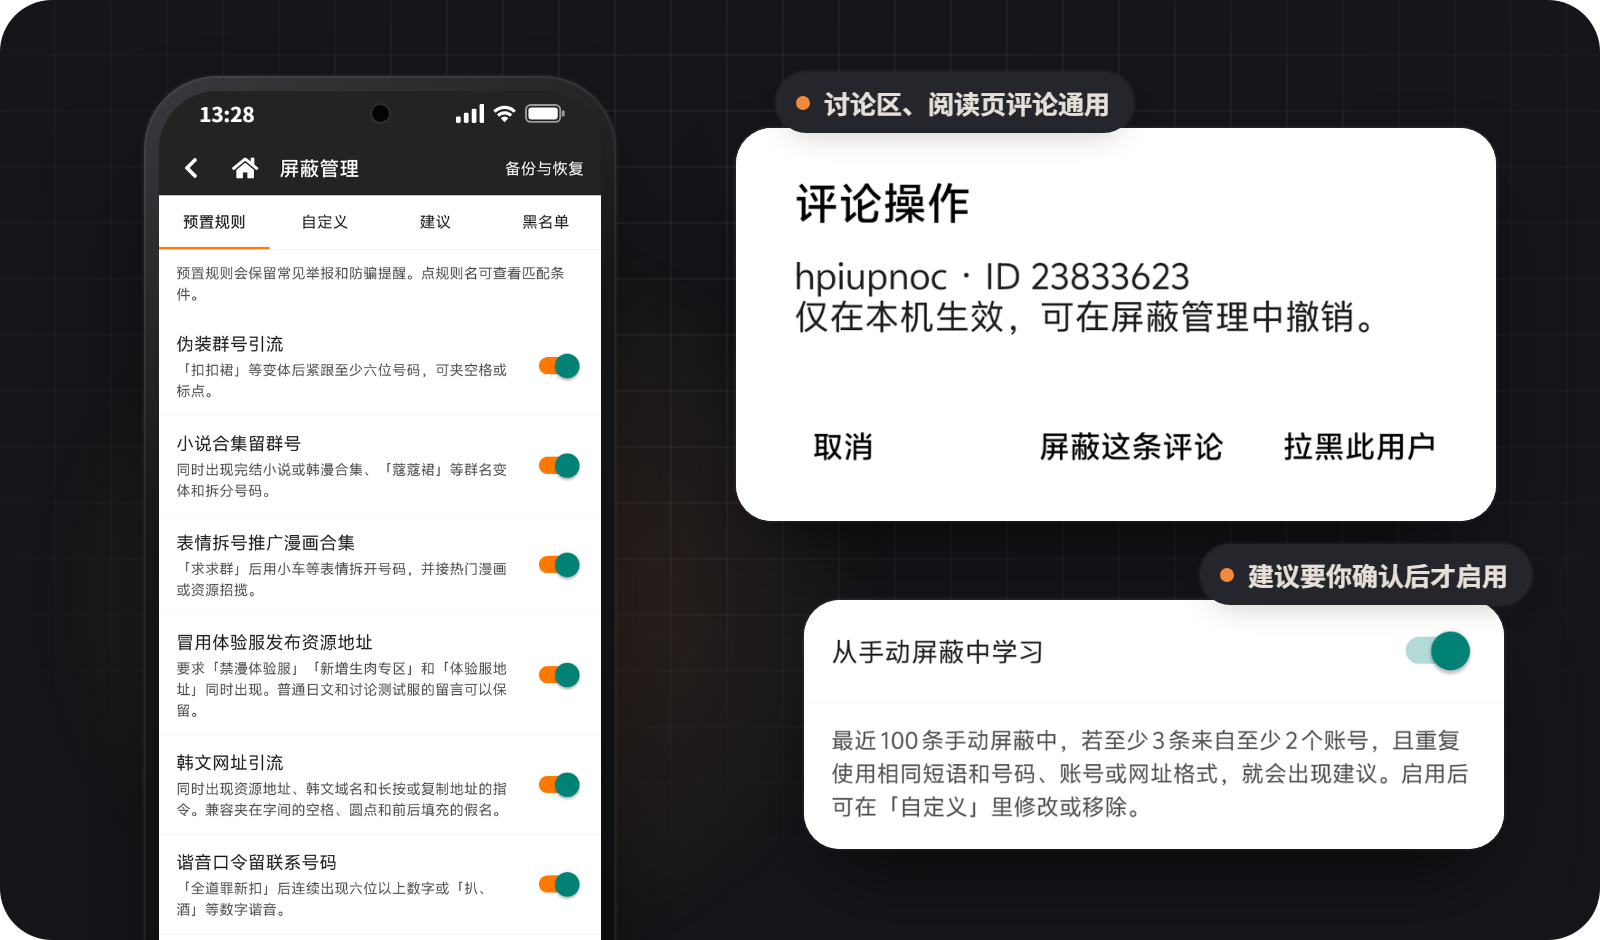
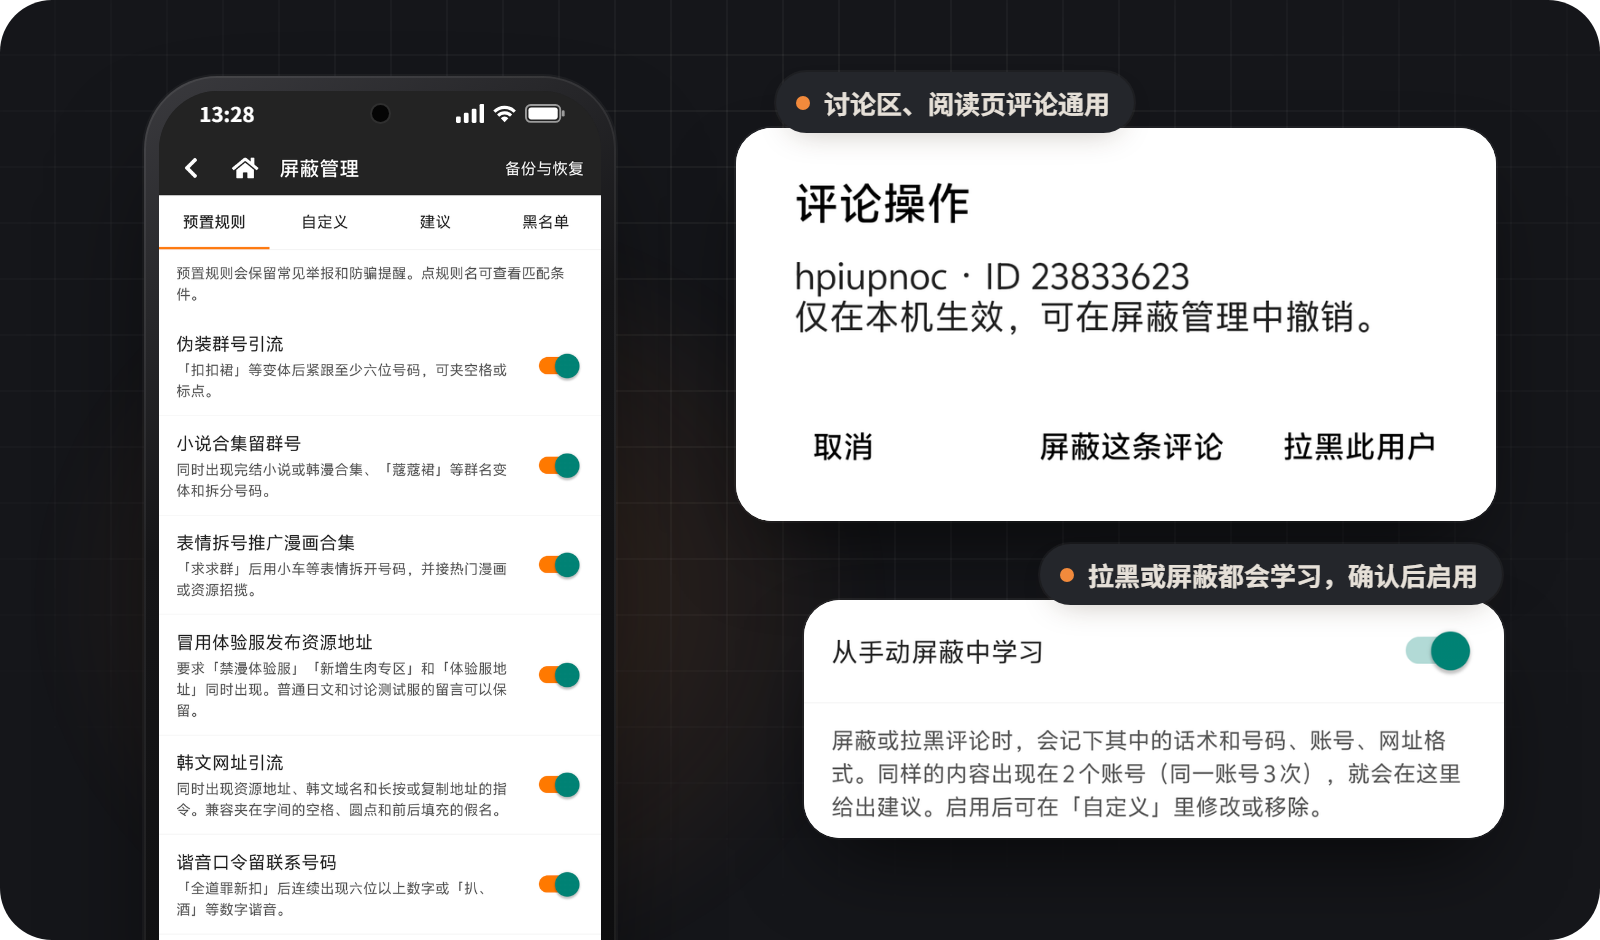
发布 1.0：评论学习改进，版本号改为 1.0（内部版本 36）
- 新增“重复话术”学习：去掉字间横杠、空格和表情后记录 6～12 字的话术，
  生成的规则容忍字间最多三个非汉字符号
- 建议门槛降为 2 个账号各一次（同一账号 3 次）
- “拉黑此用户”也会记录该条评论的学习样本
- 备份格式兼容新样本类型，每条评论最多 5 个样本
- 新增话术学习、拉黑采样和备份往返的测试用例
- README、BUILD.md 与配图更新到 1.0

Changed region(s): [[0.5, 0.7713, 0.9375, 0.9255], [0.6562, 0.5862, 0.9375, 0.6479]]

diff --git a/src/comment-learning.js b/src/comment-learning.js
@@ -5,14 +5,27 @@ __d(function(global,require,_i,_a,module,exports,deps){
   const shapes=[
     {id:'link',title:'网址',detect:/https?:\/\/[a-z0-9-]+(?:\.[a-z0-9-]+)+/ig,pattern:'https?://[a-z0-9-]+\\.[a-z0-9.-]+'},
     {id:'handle',title:'联系账号',detect:/@[a-z][a-z0-9_]{4,30}\b/ig,pattern:'@[a-z][a-z0-9_]{4,30}\\b'},
-    {id:'number',title:'拆分或连续号码',detect:new RegExp(number+'(?:[ !.,，。·、_\\-]{0,3}'+number+'){5,13}','g'),pattern:number+'(?:[ !.,，。·、_\\-]{0,3}'+number+'){5,13}'}
+    {id:'number',title:'拆分或连续号码',detect:new RegExp(number+'(?:[ !.,，。·、_\\-]{0,3}'+number+'){5,13}','g'),pattern:number+'(?:[ !.,，。·、_\\-]{0,3}'+number+'){5,13}'},
+    // Ads reuse the same sentence across accounts and split it with dashes, dots, spaces or emoji.
+    {id:'phrase',title:'重复话术'}
   ];
   const skip=/(?:教程|翻译|翻譯|作者|来源|來源|原文|章节|章節|书号|書號|编号|編號|作品|话数|話數|頁碼|页码|发布日|發布日|公式|参考|參考|画师|畫師|出处|出處|漫画|漫畫|收藏|验证码|驗證碼|错误码|錯誤碼|生日|日期|更新时间|更新時間|官方群|官方網站|官方网站)/;
   const gap='[\\s:：=→👉(（【]{0,5}';
+  // A learned phrase tolerates up to three non-Han characters between its characters.
+  // Spell the range literally: RE2JS fails on \p{Han} together with case-insensitive matching.
+  const joint='[^㐀-鿿]{0,3}';
+  const han=/^[㐀-鿿]$/, clause=/^[，。！？；：、（）【】「」『』“”"'!?;:,()\n]$/;
+  const PHRASE_MIN=6,PHRASE_MAX=12,MAX_SHAPES=5;
+  function validShape(anchor,type){
+    if(typeof anchor!=='string')return false;
+    if(type==='phrase')return new RegExp('^[\\u3400-\\u9fff]{'+PHRASE_MIN+','+PHRASE_MAX+'}$').test(anchor);
+    return ['link','number','handle'].includes(type) && /^[㐀-鿿]{3,10}$/.test(anchor);
+  }
   function pattern(anchor,type){
-    const shape=shapes.find(s=>s.id===type);
-    if(!shape || !/^[\u3400-\u9fff]{3,10}$/.test(anchor)||skip.test(anchor))return null;
-    return anchor+gap+shape.pattern;
+    if(!validShape(anchor,type))return null;
+    if(type==='phrase')return Array.from(anchor).join(joint);
+    if(skip.test(anchor))return null;
+    return anchor+gap+shapes.find(s=>s.id===type).pattern;
   }
   function canonicalPattern(source){
     // Older suggestions stored their literal anchor in its original script.
@@ -21,20 +34,39 @@ __d(function(global,require,_i,_a,module,exports,deps){
     const end=source.indexOf(gap);
     if(end<3||end>10)return source;
     const anchor=source.slice(0,end);
-    return shapes.some(shape=>pattern(anchor,shape.id)===source) ? fold(anchor)+source.slice(end) : source;
+    return shapes.some(shape=>shape.id!=='phrase' && pattern(anchor,shape.id)===source) ? fold(anchor)+source.slice(end) : source;
+  }
+  function phrases(text){
+    // Join Han characters separated by at most three non-Han marks that do not end a clause.
+    const runs=[];let run='',pending=0;
+    for(const ch of Array.from(text)){
+      if(han.test(ch)){run+=ch;pending=0;continue;}
+      if(run && !clause.test(ch) && pending<3){pending++;continue;}
+      if(run.length>=PHRASE_MIN)runs.push(run);
+      run='';pending=0;
+    }
+    if(run.length>=PHRASE_MIN)runs.push(run);
+    const seen=new Set();
+    return runs.map(r=>r.slice(0,PHRASE_MAX)).filter(r=>!seen.has(r) && seen.add(r))
+      .map((r,i)=>({r,i})).sort((a,b)=>b.r.length-a.r.length||a.i-b.i).slice(0,3).map(x=>x.r);
   }
   function extract(text){
     const found=[];
     for(const shape of shapes){
+      if(!shape.detect)continue;
       shape.detect.lastIndex=0;
       let hit;
       while((hit=shape.detect.exec(text)) && found.length<3){
         // Do not learn a substring of a long sentence. Prefer a short standalone call to action.
         const lead=text.slice(Math.max(0,hit.index-22),hit.index);
-        const anchor=/(?:^|[^\u3400-\u9fff])([\u3400-\u9fff]{3,10})[\s:：=→👉(（【]{0,5}$/.exec(lead);
+        const anchor=/(?:^|[^㐀-鿿])([㐀-鿿]{3,10})[\s:：=→👉(（【]{0,5}$/.exec(lead);
         if(!anchor || !pattern(anchor[1],shape.id))continue;
         if(!found.some(x=>x.anchor===anchor[1] && x.type===shape.id))found.push({anchor:anchor[1],type:shape.id});
       }
+    }
+    for(const anchor of phrases(text)){
+      if(found.length>=MAX_SHAPES)break;
+      found.push({anchor,type:'phrase'});
     }
     return found;
   }
@@ -48,12 +80,18 @@ __d(function(global,require,_i,_a,module,exports,deps){
         const anchor=fold(shape.anchor),source=pattern(anchor,shape.type);
         if(!source || active.has(source) || ignored.has(source))return;
         let item=seen.get(source);
-        if(!item){item={pattern:source,anchor,type:shape.type,title:shapes.find(x=>x.id===shape.type).title,cids:new Set(),authors:new Set()};seen.set(source,item);}
+        if(!item){
+          const title=shapes.find(x=>x.id===shape.type).title;
+          item={pattern:source,anchor,type:shape.type,title,label:shape.type==='phrase'?'「'+anchor+'」'+title:anchor+' ＋ '+title,cids:new Set(),authors:new Set()};
+          seen.set(source,item);
+        }
         item.cids.add(c.id);item.authors.add(c.author);
       });
     });
-    return Array.from(seen.values()).filter(x=>x.cids.size>=3 && x.authors.size>=2)
-      .sort((a,b)=>b.cids.size-a.cids.size).slice(0,12).map(x=>({pattern:x.pattern,anchor:x.anchor,title:x.title,count:x.cids.size,authors:x.authors.size}));
+    // Two accounts repeating the same shape is enough evidence; a single account needs three comments.
+    return Array.from(seen.values()).filter(x=>x.cids.size>=2 && (x.authors.size>=2 || x.cids.size>=3))
+      .sort((a,b)=>b.authors.size-a.authors.size||b.cids.size-a.cids.size).slice(0,12)
+      .map(x=>({pattern:x.pattern,anchor:x.anchor,title:x.title,label:x.label,count:x.cids.size,authors:x.authors.size}));
   }
-  Object.assign(exports,{extract,suggestions,canonicalPattern});
+  Object.assign(exports,{extract,suggestions,canonicalPattern,validShape,MAX_SHAPES});
 },2174,[651]);

diff --git a/src/comment-filters.js b/src/comment-filters.js
@@ -44,7 +44,7 @@ __d(function(global,require,_i,_a,module,exports,deps){
       value[field]=rows.map((row,index)=>{
         const item={id:String(row.id),label:typeof row.label==='string'?row.label.slice(0,80):''};
         if(field==='comments' && index>=rows.length-limits.samples && accountId(String(row.author)) && Array.isArray(row.shapes)){
-          const shapes=row.shapes.filter(s=>s && /^[\u3400-\u9fff]{3,10}$/.test(s.anchor) && ['link','number','handle'].includes(s.type)).slice(0,3);
+          const shapes=row.shapes.filter(s=>s && learning.validShape(s.anchor,s.type)).slice(0,learning.MAX_SHAPES);
           if(shapes.length){item.author=String(row.author);item.shapes=shapes;}
         }
         return item;
@@ -160,13 +160,21 @@ __d(function(global,require,_i,_a,module,exports,deps){
       v.released=v.released.filter(x=>x!==id);
       v.autoUsers=v.autoUsers.filter(x=>x!==id);
     }
+    const sample=()=>{
+      if(v.learning===false || !userId(item))return null;
+      const text=presetText(fold(plain(item.content)));
+      return caution.test(text)?[]:learning.extract(text);
+    };
     if(!v[group].some(x=>x.id===id)){
       const row={id,label:String(item.username||'').slice(0,80)};
-      if(group==='comments' && v.learning!==false && userId(item)){
-        const text=presetText(fold(plain(item.content)));
-        if(!caution.test(text)){row.shapes=learning.extract(text);if(row.shapes.length)row.author=userId(item);}
-      }
+      if(group==='comments'){const shapes=sample();if(shapes){row.shapes=shapes;if(shapes.length)row.author=userId(item);}}
       v[group]=v[group].concat(row);
+    }
+    // Blocking an account from one of its comments also teaches the suggestions; that comment stays hidden.
+    const cid=group==='users' && commentId(item);
+    if(cid && !v.comments.some(x=>x.id===cid)){
+      const shapes=sample();
+      if(shapes && shapes.length)v.comments=v.comments.concat({id:cid,label:String(item.username||'').slice(0,80),author:userId(item),shapes});
     }
   });}
   function plain(html){
@@ -275,5 +283,5 @@ __d(function(global,require,_i,_a,module,exports,deps){
     });
     queue=operation.catch(()=>{});return operation;
   }
-  Object.assign(exports,{get:()=>current,load,limits,mergeRecent,subscribe(fn){listeners.add(fn);return ()=>listeners.delete(fn);},save,hide,remove,togglePreset,presetList,editPreset,deletePreset,backupTransaction,visible,rememberAuthors,plain,compile,userId,commentId,presets,allowLearning,decide,suggestions:learning.suggestions});
+  Object.assign(exports,{get:()=>current,load,limits,mergeRecent,subscribe(fn){listeners.add(fn);return ()=>listeners.delete(fn);},save,hide,remove,togglePreset,presetList,editPreset,deletePreset,backupTransaction,visible,rememberAuthors,plain,compile,userId,commentId,presets,allowLearning,decide,suggestions:learning.suggestions,validShape:learning.validShape,MAX_SHAPES:learning.MAX_SHAPES});
 },2169,[2,2172,2173,2174,651]);

diff --git a/src/comment-filter-page.js b/src/comment-filter-page.js
@@ -48,10 +48,10 @@ __d(function(global,require,_i,_a,module,exports,deps){
     function suggestions(){
       const v=state.value,items=store.suggestions(v);
       return el(RN.View,null,el(RN.View,{style:[line,divider,{paddingHorizontal:14,minHeight:54}]},txt(lang('从手动屏蔽中学习'),15,ink,{flex:1}),el(RN.Switch,{accessibilityLabel:lang('从手动屏蔽中学习'),value:v.learning!==false,disabled:busy,onValueChange:on=>run(()=>store.allowLearning(on))})),
-        note('最近 100 条手动屏蔽中，若至少 3 条来自至少 2 个账号，且重复使用相同短语和号码、账号或网址格式，就会出现建议。启用后可在「自定义」里修改或移除。'),
+        note('屏蔽或拉黑评论时，会记下其中的话术和号码、账号、网址格式。同样的内容出现在 2 个账号（同一账号 3 次），就会在这里给出建议。启用后可在「自定义」里修改或移除。'),
         v.learning!==false && !items.length && note('尚无待确认的建议'),
         items.map(x=>el(RN.View,{key:x.pattern,style:[divider,{paddingHorizontal:14,paddingTop:10}]},
-          txt(x.anchor+' ＋ '+lang(x.title),16,ink,null,true),txt(x.count+lang(' 条手动屏蔽')+' · '+x.authors+lang(' 个账号'),13,muted,{marginVertical:5}),
+          txt(x.label||x.anchor+' ＋ '+lang(x.title),16,ink,null,true),txt(x.count+lang(' 条手动屏蔽')+' · '+x.authors+lang(' 个账号'),13,muted,{marginVertical:5}),
           expanded===x.pattern && txt(x.pattern,13,muted,null,true),el(RN.View,{style:[line,{justifyContent:'flex-end'}]},
           action('查看正则',()=>expand(expanded===x.pattern?'':x.pattern)),action('忽略',()=>run(()=>store.decide(x.pattern,false)),{disabled:busy}),action('启用',()=>run(()=>store.decide(x.pattern,true)),{color:accent,disabled:busy})))));
     }

diff --git a/src/backup-data.js b/src/backup-data.js
@@ -77,8 +77,8 @@ __d(function(global,require,_i,_a,module,exports,deps){
     for(const r of f.c){
       check(Array.isArray(r) && (r.length===2 || r.length===4) && id(r[0]) && text(r[1],80));
       if(r.length===4){
-        check(id(r[2]) && Array.isArray(r[3]) && r[3].length<=3);
-        for(const s of r[3])check(Array.isArray(s) && s.length===2 && /^[\u3400-\u9fff]{3,10}$/.test(s[0]) && ['link','number','handle'].includes(s[1]));
+        check(id(r[2]) && Array.isArray(r[3]) && r[3].length<=filters.MAX_SHAPES);
+        for(const s of r[3])check(Array.isArray(s) && s.length===2 && filters.validShape(s[0],s[1]));
       }
     }
     for(const key of Object.keys(f.p)){
@@ -111,7 +111,7 @@ __d(function(global,require,_i,_a,module,exports,deps){
       if(author && (!row.author || row.author===author)){
         const merged=new Map((row.shapes||[]).map(s=>[s.type+'/'+fold(s.anchor),s]));
         for(const [anchor,type] of shapes)if(!merged.has(type+'/'+fold(anchor)))merged.set(type+'/'+fold(anchor),{anchor,type});
-        row.author=author;row.shapes=Array.from(merged.values()).slice(0,3);
+        row.author=author;row.shapes=Array.from(merged.values()).slice(0,filters.MAX_SHAPES);
         if(previous && !previous.shapes && row.shapes.length && index>=f.c.length-filters.limits.samples)revived.add(id);
       }
       comments.set(id,row);

diff --git a/src/version-page.js b/src/version-page.js
@@ -5,7 +5,7 @@ __d(function(global,require,_i,_a,module,exports,deps){
     const url=info.app_landing_page;
     return el(RN.View,{style:{flex:1,paddingTop:RN.StatusBar.currentHeight||0,backgroundColor:colors.main}},el(Header,{title:'版本信息'}),
       el(RN.ScrollView,{contentContainerStyle:{padding:16}},
-        el(RN.Text,{style:{color:'white',fontSize:18}},'JM洁净版 0.1'),
+        el(RN.Text,{style:{color:'white',fontSize:18}},'JM洁净版 1.0'),
         !!info.version && el(RN.Text,{style:{color:'white',marginVertical:12}},'源站版本 '+info.version),
         !!info.version_info && el(RN.Text,{style:{color:'white',lineHeight:22}},String(info.version_info)),
         typeof url==='string' && /^https?:\/\//i.test(url) && el(RN.Button,{title:'在浏览器查看源站版本',color:colors.secondary,

diff --git a/src/member-settings.js b/src/member-settings.js
@@ -377,7 +377,7 @@ __d(function(g, r, i, a, m, e, d) {
                     style: B.infoRowLeft
                 }, "应用版本"), p.default.createElement(h.Text, {
                     style: B.settingRowRightText
-                }, "JM洁净版 0.1")), p.default.createElement(_0x3eafc7, {
+                }, "JM洁净版 1.0")), p.default.createElement(_0x3eafc7, {
                     title: "备份与恢复",content:"导入 / 导出",onPress:r(d[24]).show,icon:true
                 }), p.default.createElement(_0x3eafc7, {
                     title: (0, L.lang)("切換圖源"),

diff --git a/build.py b/build.py
@@ -197,8 +197,8 @@ def update_version(manifest):
                 if name < len(names) and names[name] == 0x0101021b:
                     if not data[at+15] in (0x10,0x11):
                         raise ValueError('Expected integer versionCode')
-                    struct.pack_into('<I', data, at+16, 35)
-                    return replace_pool_string(data, 8, '1.8.2', '0.1')
+                    struct.pack_into('<I', data, at+16, 36)
+                    return replace_pool_string(data, 8, '1.8.2', '1.0')
         pos += length
     raise ValueError('versionCode missing')
 

diff --git a/BUILD.md b/BUILD.md
@@ -1,4 +1,4 @@
-# 构建 JM 洁净版 rc21
+# 构建 JM 洁净版
 
 本版本基于 JM2 1.8.2。仓库内的 `inputs/android-shell-r7.zip` 是项目沿用的 r7 ARM64 二进制底包。`build.py` 会校验输入哈希，并将 `src` 中的应用模块、清单修改和新增原生代码合入底包。
 
